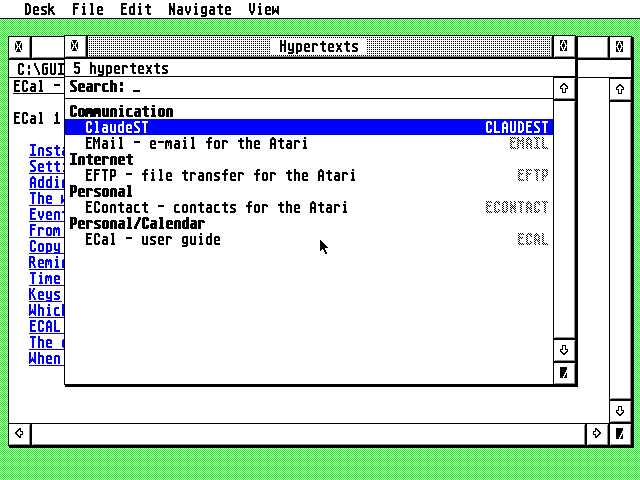
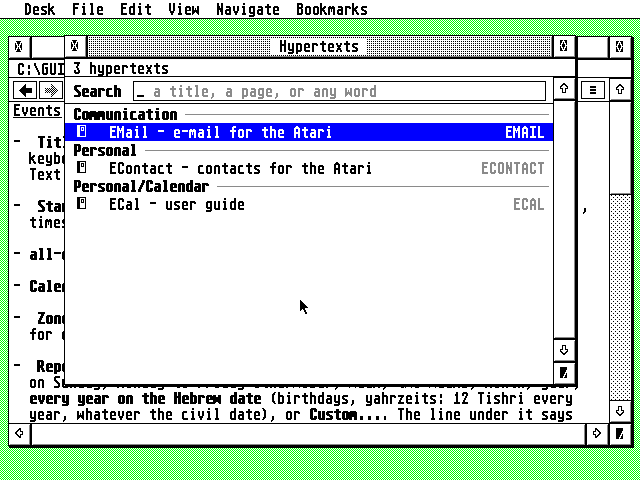
README: EHypView introduces itself; fresh screenshots
The README described EHypView by what ST-Guide had or lacked ("a
toolbar as ST-Guide had", "which needed HypFind in ST-Guide", "made to
replace ST-GUIDE.ACC"). It now says what EHypView does, and names
ST-GUIDE.ACC and ST-GUIDE.INF only where a user needs the file names.

New screenshots, taken in Hatari (Falcon VGA, EmuTOS) with the 1.4
program and the ECal, EContact and EMail guides: the library over the
viewer, the viewer with its toolbar and a tooltip, and a library search.

Claude-Session: https://claude.ai/code/session_01X65qqjLaZUDt3o37EHtGdu

diff --git a/README.md b/README.md
@@ -2,25 +2,25 @@
 
 <img src="docs/icon16.png" width="96" align="right" alt="EHypView icon: an Atari SM124-style monitor showing a page whose link points to another page">
 
-A modern viewer for ST-Guide hypertexts (`.HYP`) on the Atari TT and Falcon, as a program or a desk
-accessory, made to replace `ST-GUIDE.ACC`.
+EHypView reads and searches `.HYP` hypertexts, the help that Atari programs come with, on the TT and
+Falcon. It runs as a program or as a desk accessory, finds every hypertext on your drives by itself,
+and is the help viewer your other programs open when you press Help.
 
 **Highlights**
 
-- **Finds every hypertext by itself:** ST-Guide's folders, and `\GUIDES` and `\GEMSYS\GUIDES` on every
-  drive, with all their subfolders, scanned in the background and kept in an index. There is no
-  `ALL.REF` to maintain (yours is still read).
+- **Finds every hypertext by itself:** the folders named in `ST-GUIDE.INF`, and `\GUIDES` and
+  `\GEMSYS\GUIDES` on every drive, with all their subfolders, scanned in the background and kept in an
+  index. There is no `ALL.REF` to maintain (yours is still read).
 - **A library with one search box:** every hypertext found, grouped by subject. Typing finds page
-  names, aliases and keywords at once; Return searches the full text of every page, which needed the
-  separate HypFind tool in ST-Guide.
+  names, aliases and keywords at once; Return searches the full text of every page of every hypertext.
 - **Links that lead somewhere:** into any hypertext in the index, wherever it is. One that leads nowhere
   says so and suggests the closest names ("did you mean").
-- **In ST-Guide's place:** installed as `ST-GUIDE.ACC`, it answers programs that ask ST-Guide for help
-  (`VA_START`, `AC_HELP`), and it reads your `ST-GUIDE.INF`.
+- **Help for your other programs:** a program that asks for help (`VA_START`, `AC_HELP`) gets its page.
+  Installed under the name programs look for, `ST-GUIDE.ACC`, it is found by all of them, and it reads
+  the `ST-GUIDE.INF` they share.
 - **Pages as they were written:** styled text, links, lines, boxes and images, with unlimited history.
-- **A toolbar as ST-Guide had:** Back and Forward (with the history on the right button), the main
-  page, the page before and after, Contents, Index, See also, the library and bookmarks, each with a
-  tooltip.
+- **A toolbar:** Back and Forward (with the history on the right button), the main page, the page
+  before and after, Contents, Index, See also, the library and bookmarks, each with a tooltip.
 - **Several windows and bookmarks:** open a link in a new window (⇧-click) or the page in another
   (^N), up to six; keep pages to come back to (^D), in the Bookmarks menu and the library.
 - **Your choice of font:** the system font, or any monospaced GDOS font with NVDI or SpeedoGDOS, in any
@@ -28,7 +28,7 @@ accessory, made to replace `ST-GUIDE.ACC`.
 - **Modern but Atari:** a program with a menu bar or a desk accessory, a shortcut for every menu item,
   a right-click menu, drag and drop, the clipboard and iconify.
 
-![EHypView on a Falcon: the library lists the AERA programs' guides by subject (ClaudeST, EMail, EFTP, EContact, ECal), over ECal's guide open in the viewer](docs/screenshot.png)
+![EHypView on a Falcon: the library lists the AERA programs' guides by subject (EMail, EContact, ECal) over the viewer, which shows a page of ECal's guide under its toolbar](docs/screenshot.png)
 
 ## Getting started
 
@@ -47,8 +47,8 @@ each file on its own, and all of them together in `EHYPVIEW-x.y.zip`.
    boot drive's root, else the library. To open a `.HYP` with a double-click, install `EHYPVIEW.PRG`
    in your desktop as the application for `HYP` files.
 2. To have EHypView inside every program, copy `EHYPVIEW.ACC` to the root of your boot drive and
-   restart. **To replace ST-Guide**, copy it there as `ST-GUIDE.ACC` instead, in place of ST-Guide's,
-   so that programs asking for ST-Guide find it.
+   restart. **To be the help viewer for every program**, copy it there as `ST-GUIDE.ACC` instead (in
+   place of any accessory with that name): that is the name programs look for when you press Help.
 3. Keep your hypertexts (each `.HYP` with its `.REF`) where EHypView looks for them, including all
    subfolders:
    - the folders in `PATHS` and `HYPFOLD`, and the folder of `REF`, from `ST-GUIDE.INF`
@@ -73,7 +73,9 @@ menu with **Back** and **Forward** first (and, on a link, **Link in new window**
 **New window**, **Add bookmark**, **Copy page**, **Library and search**, **Font...**, and
 **About EHypView...** last.
 
-**The toolbar**, at the top of each viewer window, has ST-Guide's buttons in the family's look:
+**The toolbar**, at the top of each viewer window, drawn like the other AERA programs' toolbars:
+
+![The viewer showing a page of ECal's guide, with the toolbar above it and the Back button's tooltip, "Back (Undo). Right button: the history"](docs/toolbar.png)
 
 | Button | What it does |
 |---|---|
@@ -82,7 +84,7 @@ menu with **Back** and **Forward** first (and, on a link, **Link in new window**
 | < Contents > | the page before, the contents, the next page |
 | Index | the hypertext's index |
 | See also | the pages the page names with `@xref`, as a menu |
-| Library | the library (ST-Guide's catalog) |
+| Library | the library: every hypertext found, and the search |
 | Bookmarks | add or remove this page, or go to a bookmark |
 | ≡ | a menu: **About EHypView...**, new window, open, library, copy, bookmark, fonts, close, quit; the accessory, which has no menu bar, finds them here |
 
@@ -114,9 +116,9 @@ make room first; the ≡ menu and the keys still reach everything.
 
 **Desk > About EHypView...** shows the version, the number of hypertexts found and the font in use.
 
-**Pop-ups** (links to a `@pnode`) open as a small framed box just below the link, over the page, as
-in ST-Guide. A click on a link in the box follows it; any other click, or any key, closes the box and
-leaves the page where it was.
+**Pop-ups** (links to a `@pnode`) open as a small framed box just below the link, over the page. A
+click on a link in the box follows it; any other click, or any key, closes the box and leaves the
+page where it was.
 
 **Several windows.** Each viewer window has its own page, history and scroll position; up to six are
 open at once, each a little below and right of the last. The menu commands act on the one in front.
@@ -128,8 +130,8 @@ are first in the library too, where the accessory, which has no menu bar, finds 
 one, Delete removes it. They are kept in `EHYPVIEW.INF` (`BOOKMARK1` to `BOOKMARK10`), which the
 program and the accessory share.
 
-Tabs are still to come: [docs/DESIGN.md](docs/DESIGN.md) has the assessment of ST-Guide, the goals and
-the [roadmap](docs/DESIGN.md#roadmap).
+Tabs are still to come: [docs/DESIGN.md](docs/DESIGN.md) has the goals and the
+[roadmap](docs/DESIGN.md#roadmap).
 
 ### The library
 
@@ -138,6 +140,8 @@ by subject under a heading and a rule, with one search field at the top. Each ro
 of what it is (a book for a hypertext, a ribbon for a bookmark, a page for a page, a magnifier for the
 full-text search) and the file or hypertext it is in on the right. It is also what you see when no
 page was asked for.
+
+![The library searching for "remind": the page Reminders in ECal's guide, and the full-text search for the word](docs/library.png)
 
 - **Type to search.** Matching page names, aliases and keywords show at once (exact matches first, then
   names starting with what you typed, then names containing it, then similar ones), with matching
@@ -266,10 +270,10 @@ icons/      the desktop icon (RSC and ICN files), from tools/icon
 tests/      unit and golden tests, fixtures and their generators, EHVCHECK,
             the Hatari rigs
 tools/      hypdump, the icon generator, bump.py, sync-common.sh
-docs/       DESIGN.md, FORMAT.md, the icon pictures
+docs/       DESIGN.md, FORMAT.md, the icon pictures, the screenshots
 ```
 
-[docs/DESIGN.md](docs/DESIGN.md) has the assessment of ST-Guide, the goals, the architecture and the
+[docs/DESIGN.md](docs/DESIGN.md) has the goals, the design decisions, the architecture and the
 roadmap; [docs/FORMAT.md](docs/FORMAT.md) the `.HYP` and `.REF` file formats, with the corrections to
 the published description.
 
